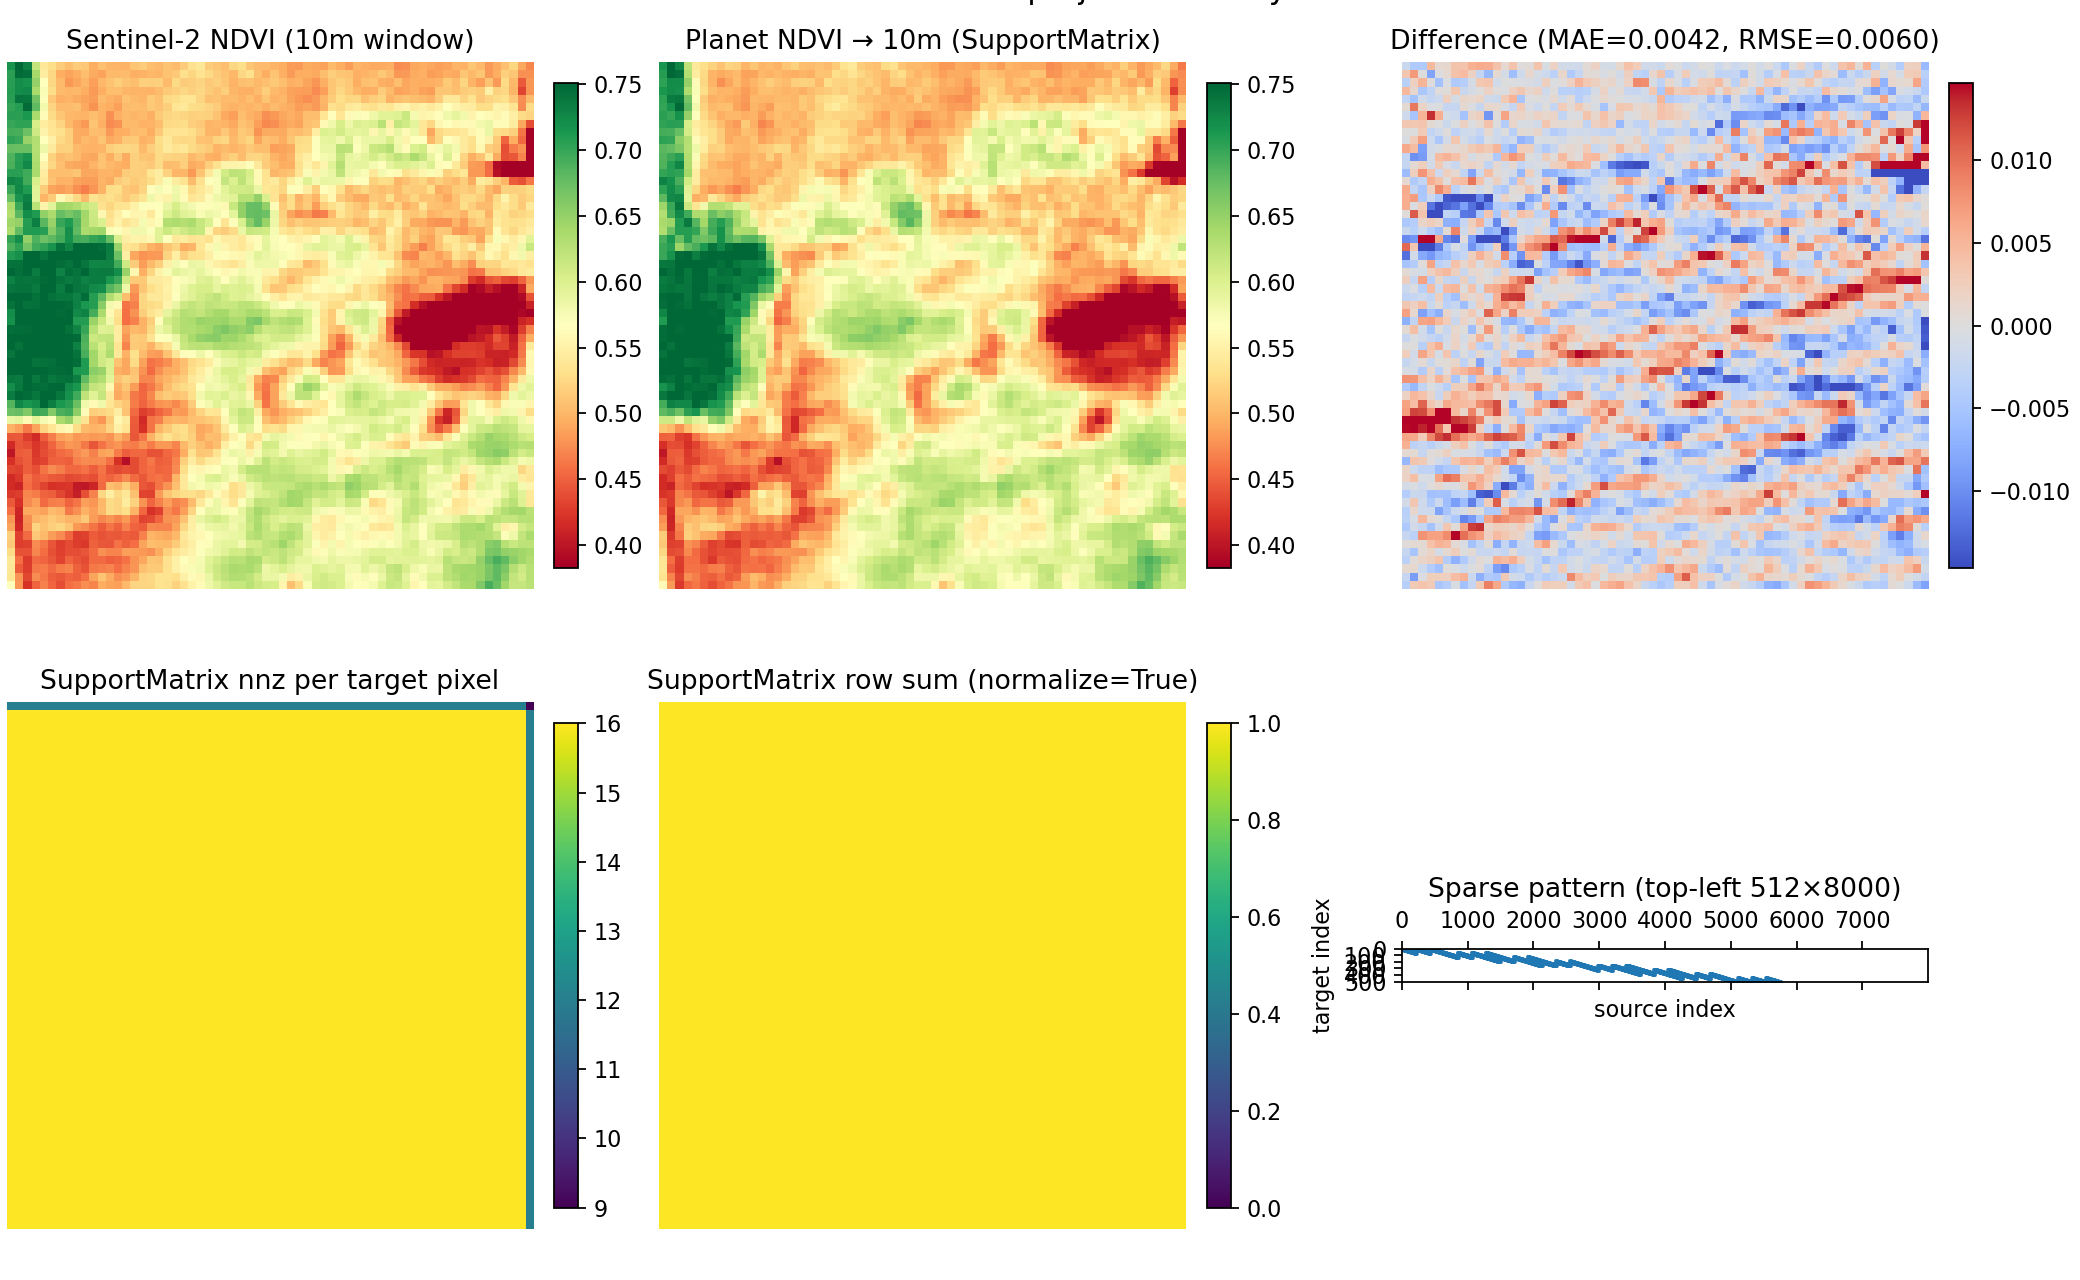
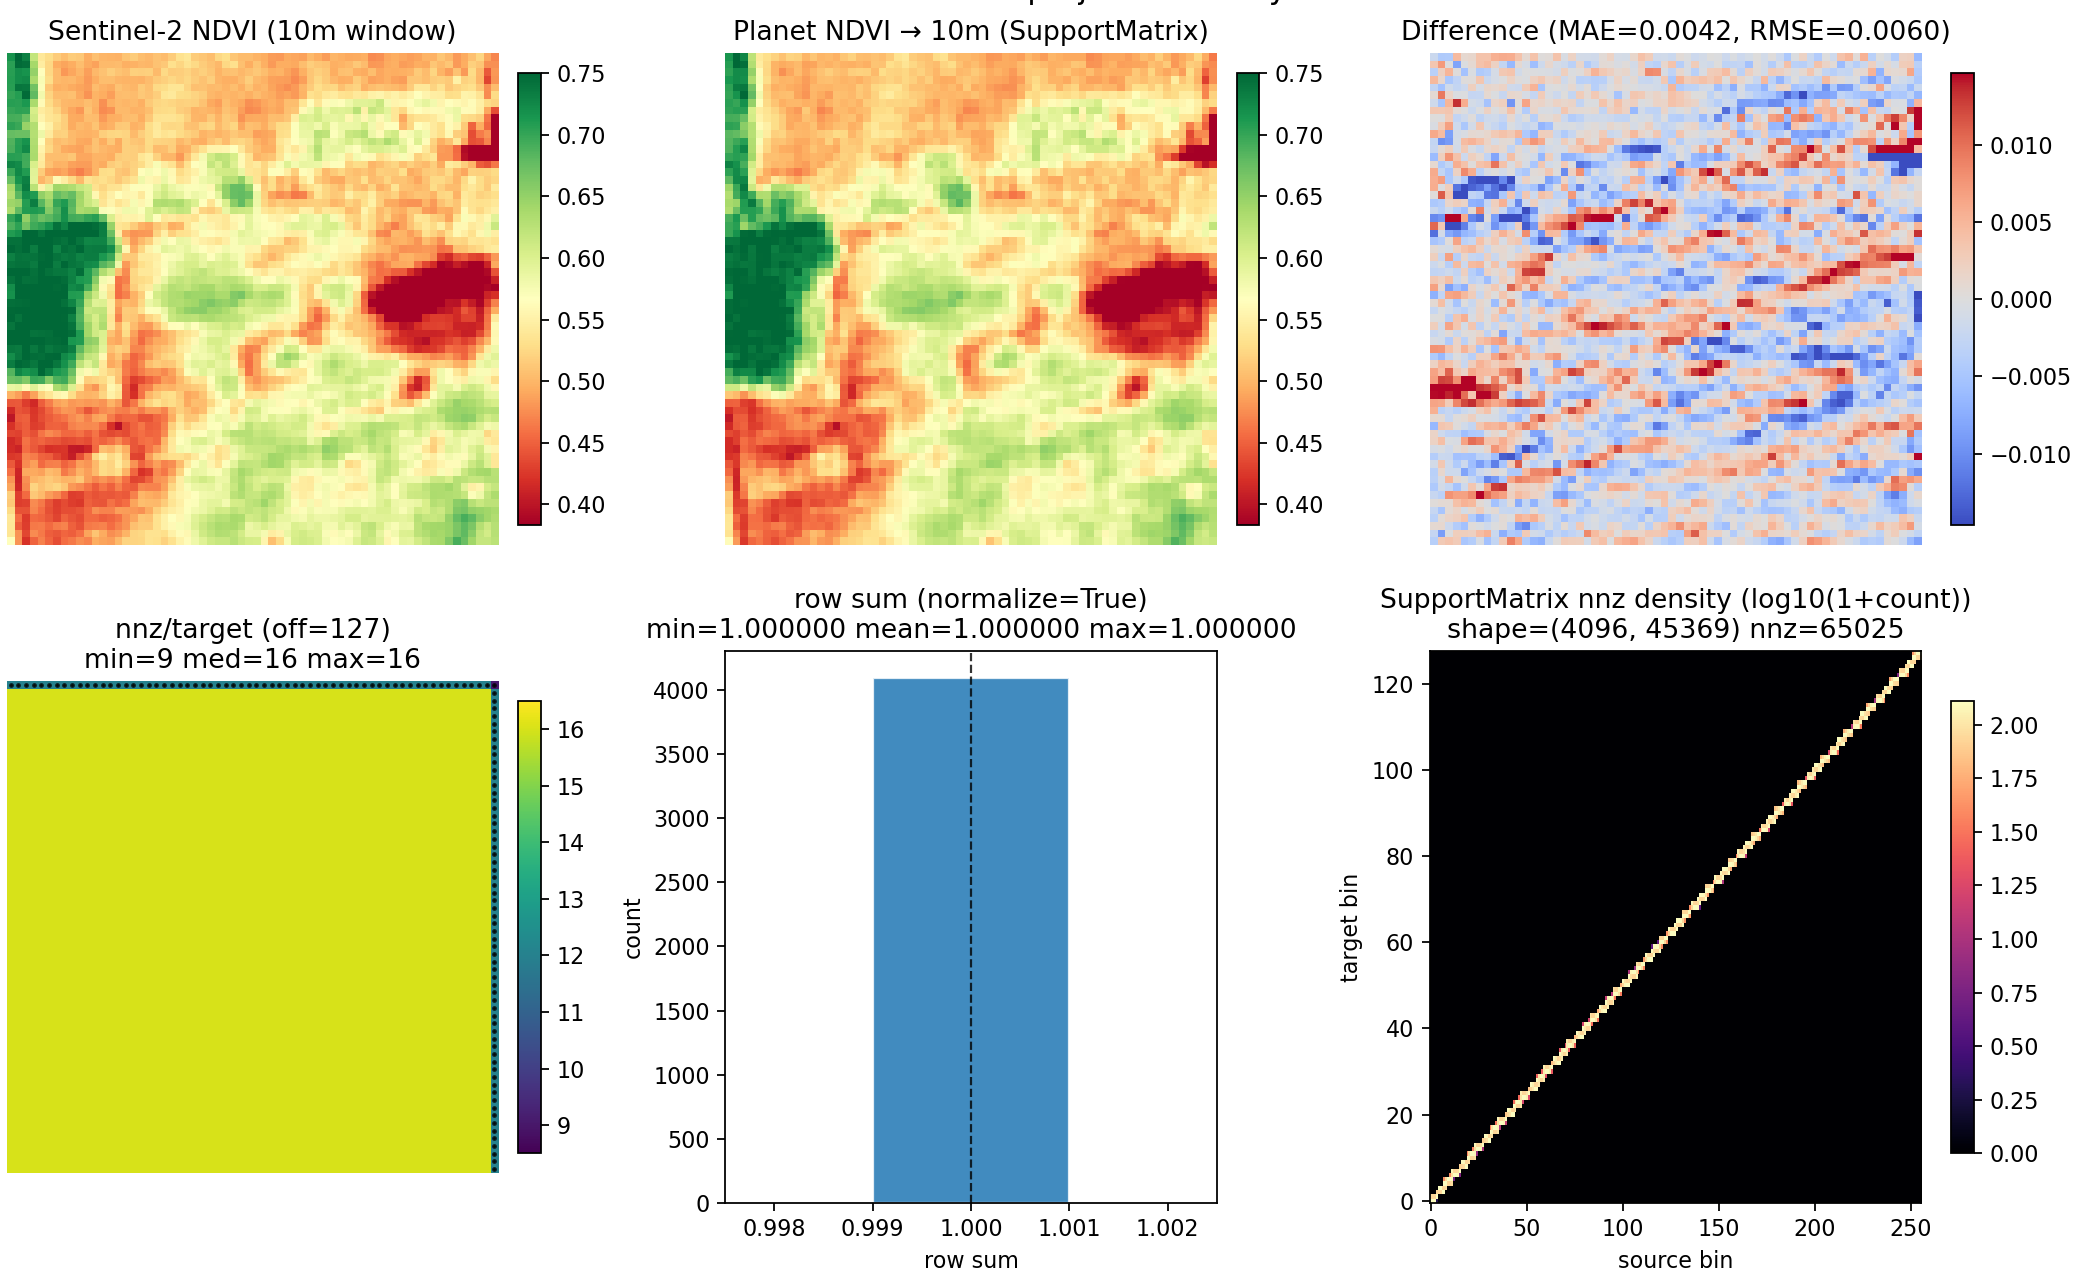
Visuals: fix SupportMatrix diagnostics plots

diff --git a/scripts/generate_readme_visuals.py b/scripts/generate_readme_visuals.py
@@ -148,8 +148,15 @@ def plot_planet_to_s2_ndvi(
     diff = proj - lr
     mae = float(np.mean(np.abs(diff)))
     rmse = float(np.sqrt(np.mean(diff**2)))
-    nnz_per_row = np.diff(M.matrix.indptr).reshape(size, size)
+    nnz_per_row = np.diff(M.matrix.indptr).astype(int, copy=False).reshape(size, size)
+    nnz_min = int(np.min(nnz_per_row))
+    nnz_median = int(np.median(nnz_per_row))
+    nnz_max = int(np.max(nnz_per_row))
+
     row_sum = np.asarray(M.matrix.sum(axis=1)).ravel().reshape(size, size)
+    rs_min = float(np.min(row_sum))
+    rs_mean = float(np.mean(row_sum))
+    rs_max = float(np.max(row_sum))
 
     vmin, vmax = _robust_vmin_vmax(np.stack([lr, proj], axis=0))
     dmax = float(np.nanpercentile(np.abs(diff), 98))
@@ -176,24 +183,72 @@ def plot_planet_to_s2_ndvi(
     ax.axis("off")
 
     ax = axes[1, 0]
-    im = ax.imshow(nnz_per_row, cmap="viridis")
-    ax.set_title("SupportMatrix nnz per target pixel")
-    fig.colorbar(im, ax=ax, fraction=0.046, pad=0.04)
+    im = ax.imshow(
+        nnz_per_row,
+        cmap="viridis",
+        vmin=float(nnz_min) - 0.5,
+        vmax=float(nnz_max) + 0.5,
+        interpolation="nearest",
+    )
+    off = int(np.sum(nnz_per_row != nnz_max))
+    ax.set_title(f"nnz/target (off={off})\nmin={nnz_min} med={nnz_median} max={nnz_max}")
+    fig.colorbar(
+        im,
+        ax=ax,
+        fraction=0.046,
+        pad=0.04,
+        ticks=list(range(nnz_min, nnz_max + 1)),
+    )
+    rr, cc = np.where(nnz_per_row != nnz_max)
+    if rr.size:
+        ax.scatter(cc, rr, s=6, c="black", marker=".", alpha=0.7)
     ax.axis("off")
 
     ax = axes[1, 1]
-    im = ax.imshow(row_sum, cmap="viridis", vmin=0.0, vmax=1.0)
-    ax.set_title("SupportMatrix row sum (normalize=True)")
-    fig.colorbar(im, ax=ax, fraction=0.046, pad=0.04)
-    ax.axis("off")
+    flat = row_sum.ravel()
+    if (rs_max - rs_min) <= 1e-12:
+        pad = 1e-3
+        ax.bar(
+            [rs_mean],
+            [flat.size],
+            width=2.0 * pad,
+            color="tab:blue",
+            alpha=0.85,
+            edgecolor="white",
+        )
+        ax.set_xlim(rs_mean - 2.5 * pad, rs_mean + 2.5 * pad)
+    else:
+        pad = max(1e-6, 0.05 * (rs_max - rs_min))
+        ax.hist(
+            flat,
+            bins=25,
+            range=(rs_min - pad, rs_max + pad),
+            color="tab:blue",
+            alpha=0.85,
+            edgecolor="white",
+        )
+        ax.set_xlim(rs_min - pad, rs_max + pad)
+    ax.axvline(1.0, color="black", linewidth=1.0, linestyle="--", alpha=0.8)
+    ax.set_title(f"row sum (normalize=True)\nmin={rs_min:.6f} mean={rs_mean:.6f} max={rs_max:.6f}")
+    ax.set_xlabel("row sum")
+    ax.set_ylabel("count")
 
     ax = axes[1, 2]
-    r = min(512, M.matrix.shape[0])
-    c = min(8000, M.matrix.shape[1])
-    ax.spy(M.matrix[:r, :c], markersize=0.5)
-    ax.set_title(f"Sparse pattern (top-left {r}×{c})")
-    ax.set_xlabel("source index")
-    ax.set_ylabel("target index")
+    rr_nz, cc_nz = M.matrix.nonzero()
+    bins_target = 128
+    bins_source = 256
+    H, _, _ = np.histogram2d(
+        rr_nz,
+        cc_nz,
+        bins=(bins_target, bins_source),
+        range=((0, M.matrix.shape[0]), (0, M.matrix.shape[1])),
+    )
+    dens = np.log10(1.0 + H)
+    im = ax.imshow(dens, cmap="magma", aspect="auto", origin="lower", interpolation="nearest")
+    ax.set_title(f"SupportMatrix nnz density (log10(1+count))\nshape={M.matrix.shape} nnz={int(M.matrix.nnz)}")
+    ax.set_xlabel("source bin")
+    ax.set_ylabel("target bin")
+    fig.colorbar(im, ax=ax, fraction=0.046, pad=0.04)
 
     out_path.parent.mkdir(parents=True, exist_ok=True)
     fig.suptitle("Asterra local-dataset projection sanity check", y=1.02, fontsize=14)
